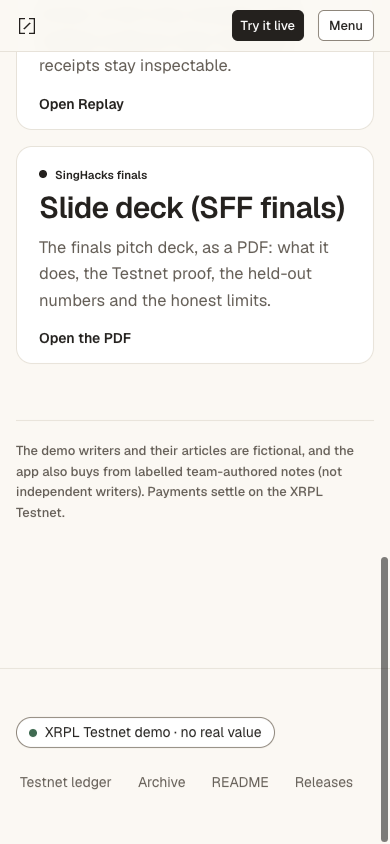
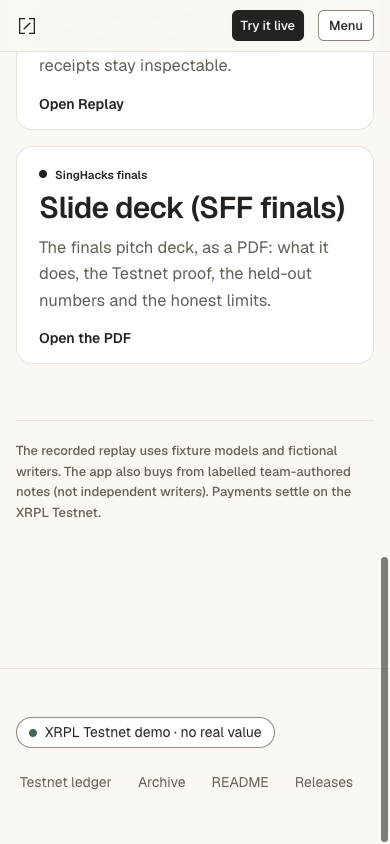
docs: keep replay fixture context beside canonical labels

Changed region(s): [[0.0308, 0.5237, 0.9231, 0.6161]]

diff --git a/site/index.html b/site/index.html
@@ -115,7 +115,7 @@ footer a { color: var(--pen); text-underline-offset: 3px; }
     <p>ResearchAgent searches expertise, buys missing evidence within your budget, and verifies delivery.</p>
     <!-- live-cta:start --><p><a class="live-cta" href="https://ra-front-651013803640.asia-southeast1.run.app">Try it live</a> · live 13–19 Nov 2026. If unavailable: <a href="demo/">Replay · 11 Nov 2026</a>.</p><!-- live-cta:end -->
     <p><a href="https://github.com/Collaboration95/theFastandtheFungible#readme">README</a> · <a href="https://github.com/Collaboration95/theFastandtheFungible/releases/tag/v1.1.1">Releases</a> · <a href="https://github.com/Collaboration95/theFastandtheFungible/releases/tag/v1.1.1">Download for Mac</a></p>
-    <p class="lede">Start with the recorded key-reveal purchase, then inspect the receipts or explore what changed since SingHacks.</p><p class="env-line"><span class="env-pill">XRPL Testnet demo · no real value</span><span>Shared XRPL Testnet demo · live answers, rule-based buying · no real value. Team-authored writers. Replay · XRPL Testnet, recorded 11 Nov 2026 · fictional writers · no real value.</span></p>
+    <p class="lede">Start with the recorded key-reveal purchase, then inspect the receipts or explore what changed since SingHacks.</p><p class="env-line"><span class="env-pill">XRPL Testnet demo · no real value</span><span>Shared XRPL Testnet demo · live answers, rule-based buying · no real value. Team-authored writers. Replay · XRPL Testnet, recorded 11 Nov 2026 · fictional writers · no real value. Fixture models.</span></p>
   </header>
 
   <div class="grid">
@@ -139,7 +139,7 @@ footer a { color: var(--pen); text-underline-offset: 3px; }
     </a>
   </div>
 
-  <footer>The demo writers and their articles are fictional, and the app also buys from labelled team-authored notes (not independent writers). Payments settle on the XRPL Testnet.</footer>
+  <footer>The recorded replay uses fixture models and fictional writers. The app also buys from labelled team-authored notes (not independent writers). Payments settle on the XRPL Testnet.</footer>
 </main>
 <!-- site-footer:start -->
 <style>.ra-ftr{border-top:1px solid #E8E2D8;margin-top:48px;font:400 14px/1.5 Geist,system-ui,-apple-system,"Segoe UI",sans-serif;color:#655D55}

diff --git a/tests/judge-pack.test.ts b/tests/judge-pack.test.ts
@@ -128,6 +128,7 @@ describe('judge pack: one true story', () => {
     const home = read('site/index.html')
     expect(home).toContain('Shared XRPL Testnet demo · live answers, rule-based buying · no real value')
     expect(home).toContain('Replay · XRPL Testnet, recorded 11 Nov 2026 · fictional writers · no real value')
+    expect(home).toContain('The recorded replay uses fixture models and fictional writers.')
   })
 
   it('has a release-note title for the latest CHANGELOG release, so /progress/ builds the day it is published', () => {

diff --git a/docs/submission/evidence/site-type/README.md b/docs/submission/evidence/site-type/README.md
@@ -20,7 +20,7 @@ The home, guide pages and generated footer use the exact canonical pill:
 label is "Shared XRPL Testnet demo · live answers, rule-based buying · no real
 value". Replay context uses "Replay · XRPL Testnet, recorded 11 Nov 2026 ·
 fictional writers · no real value". README uses "live demo"; its dated hero
-caption keeps the original evidence context. Deck labels use the same grammar.
+caption keeps the original evidence context. Deck labels use the same grammar. The replay's fixture-model context remains separate from its canonical environment label.
 
 Observed computed styles: home h1 Geist / 600; guide h1 and h2 weight 600,
 letter-spacing -0.02em; guide code/pre Geist Mono with the local font loaded.
